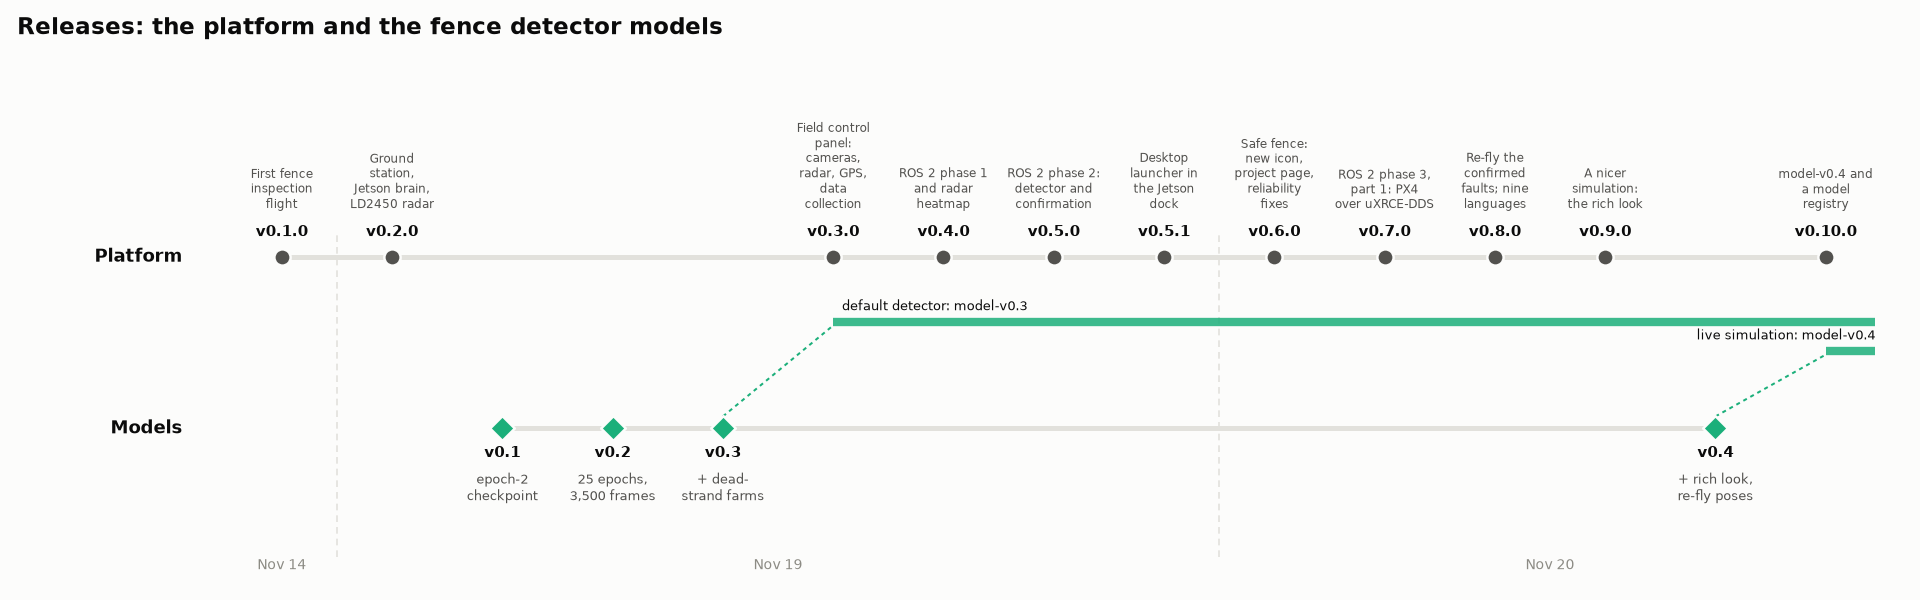
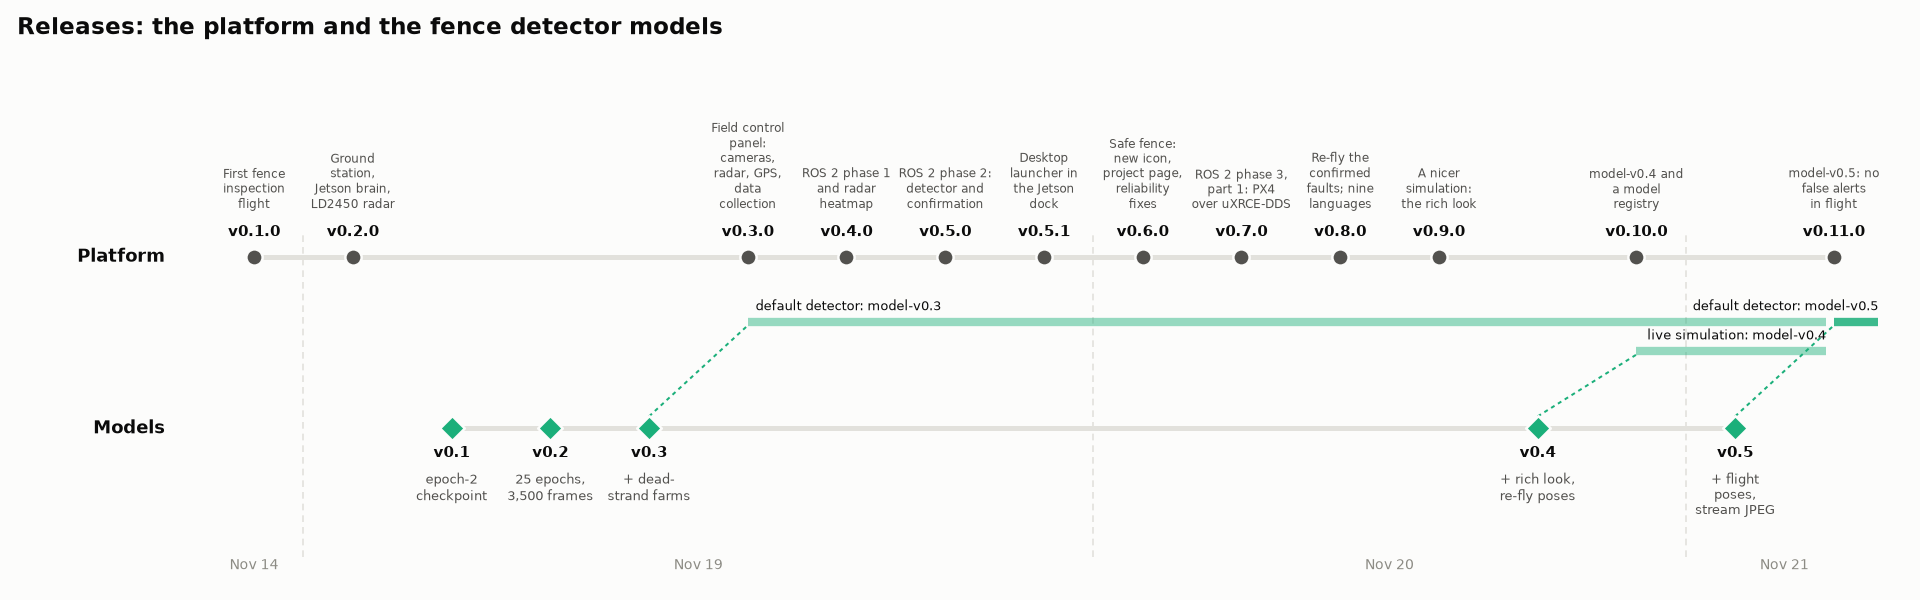
Release map with model-v0.5 and v0.11.0; a model's role ends at the release that replaced it
tools/model_charts.py reads platform.<role>_until from ml/models.json, so model-v0.3 (default) and model-v0.4 (live
simulation) stop at v0.11.0, drawn lighter, and model-v0.5 starts there.

diff --git a/tools/model_charts.py b/tools/model_charts.py
@@ -163,16 +163,20 @@ def release_map(models, out):
         ax.text(xs[t], MY - 0.1, t.replace("model-", ""), ha="center", va="top", fontsize=9, fontweight="bold", color=INK)
         ax.text(xs[t], MY - 0.25, "\n".join(textwrap.wrap(m.get("summary", ""), 12)), ha="center", va="top", fontsize=7.6, color=INK2)
     # which model each platform release used: bands under the platform lane, a dotted link from the model release
-    lanes = [("default_from", "default detector", 0.62), ("live_sim_from", "live simulation", 0.45)]
+    # a role runs from its *_from platform release to its *_until release (the next model's), or to today
+    lanes = [("default", "default detector", 0.62), ("live_sim", "live simulation", 0.45)]
     end = xs[plat[-1]] + 0.45
     for m in models:
         for key, what, y in lanes:
-            start = (m.get("platform") or {}).get(key)
+            pf = m.get("platform") or {}
+            start, until = pf.get(key + "_from"), pf.get(key + "_until")
             if not start or start not in xs:
                 continue
-            ax.plot([xs[start], end], [y, y], color=MODEL, lw=5, solid_capstyle="butt", zorder=2, alpha=0.85)
-            near_end = end - xs[start] < 3
-            ax.text(end if near_end else xs[start] + 0.08, y + 0.05, "%s: %s" % (what, m["id"]), fontsize=8, color=INK,
+            stop = xs[until] - 0.08 if until in xs else end
+            ax.plot([xs[start], stop], [y, y], color=MODEL, lw=5, solid_capstyle="butt", zorder=2,
+                    alpha=0.85 if until is None else 0.45)
+            near_end = stop - xs[start] < 3
+            ax.text(stop if near_end else xs[start] + 0.08, y + 0.05, "%s: %s" % (what, m["id"]), fontsize=8, color=INK,
                     va="bottom", ha="right" if near_end else "left")
             ax.plot([xs[m["id"]], xs[start]], [MY + 0.07, y - 0.02], color=MODEL, lw=1.2, ls=(0, (2, 2)), zorder=1)
     # day separators
